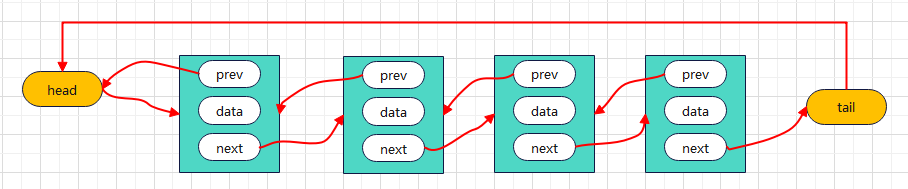
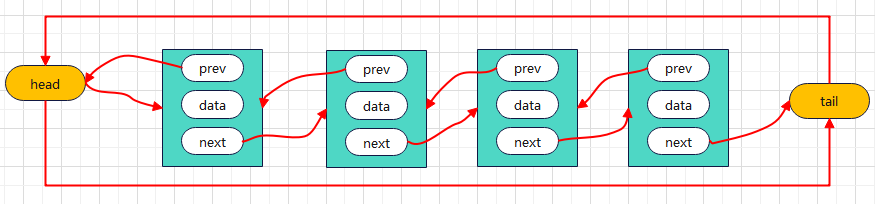
实现双向循环链表insert方法

diff --git a/LinkedList/DoublyLoopLinkedList/CreateDoublyLoopLinkedList.js b/LinkedList/DoublyLoopLinkedList/CreateDoublyLoopLinkedList.js
@@ -36,17 +36,26 @@ function DoublyLoopLinkedList() {
   }
 
   // 2. insert方法 考虑三个位置 头、尾以及中间
-  DoublyLoopLinkedList.prototype.insert(position, element){
+  DoublyLoopLinkedList.prototype.insert = function (position, element) {
     // 1.判断越界的问题
     if (position < 0 || position > this.length) {
       return false;
     }
-
+    if (position === 0) {
+      if (this.head === null) {
+        this.head = newNode;
+        this.tail = newNode;
+        newNode.next = this.tail;
+        newNode.prev = this.head;
+      } else {
+        newNode.next = this.head;
+        this.head.prev = newNode;
+        this.head = newNode;
+        newNode.prev = this.tail;
+      }
+    }
 
   }
-
-
-
 }
 
 
